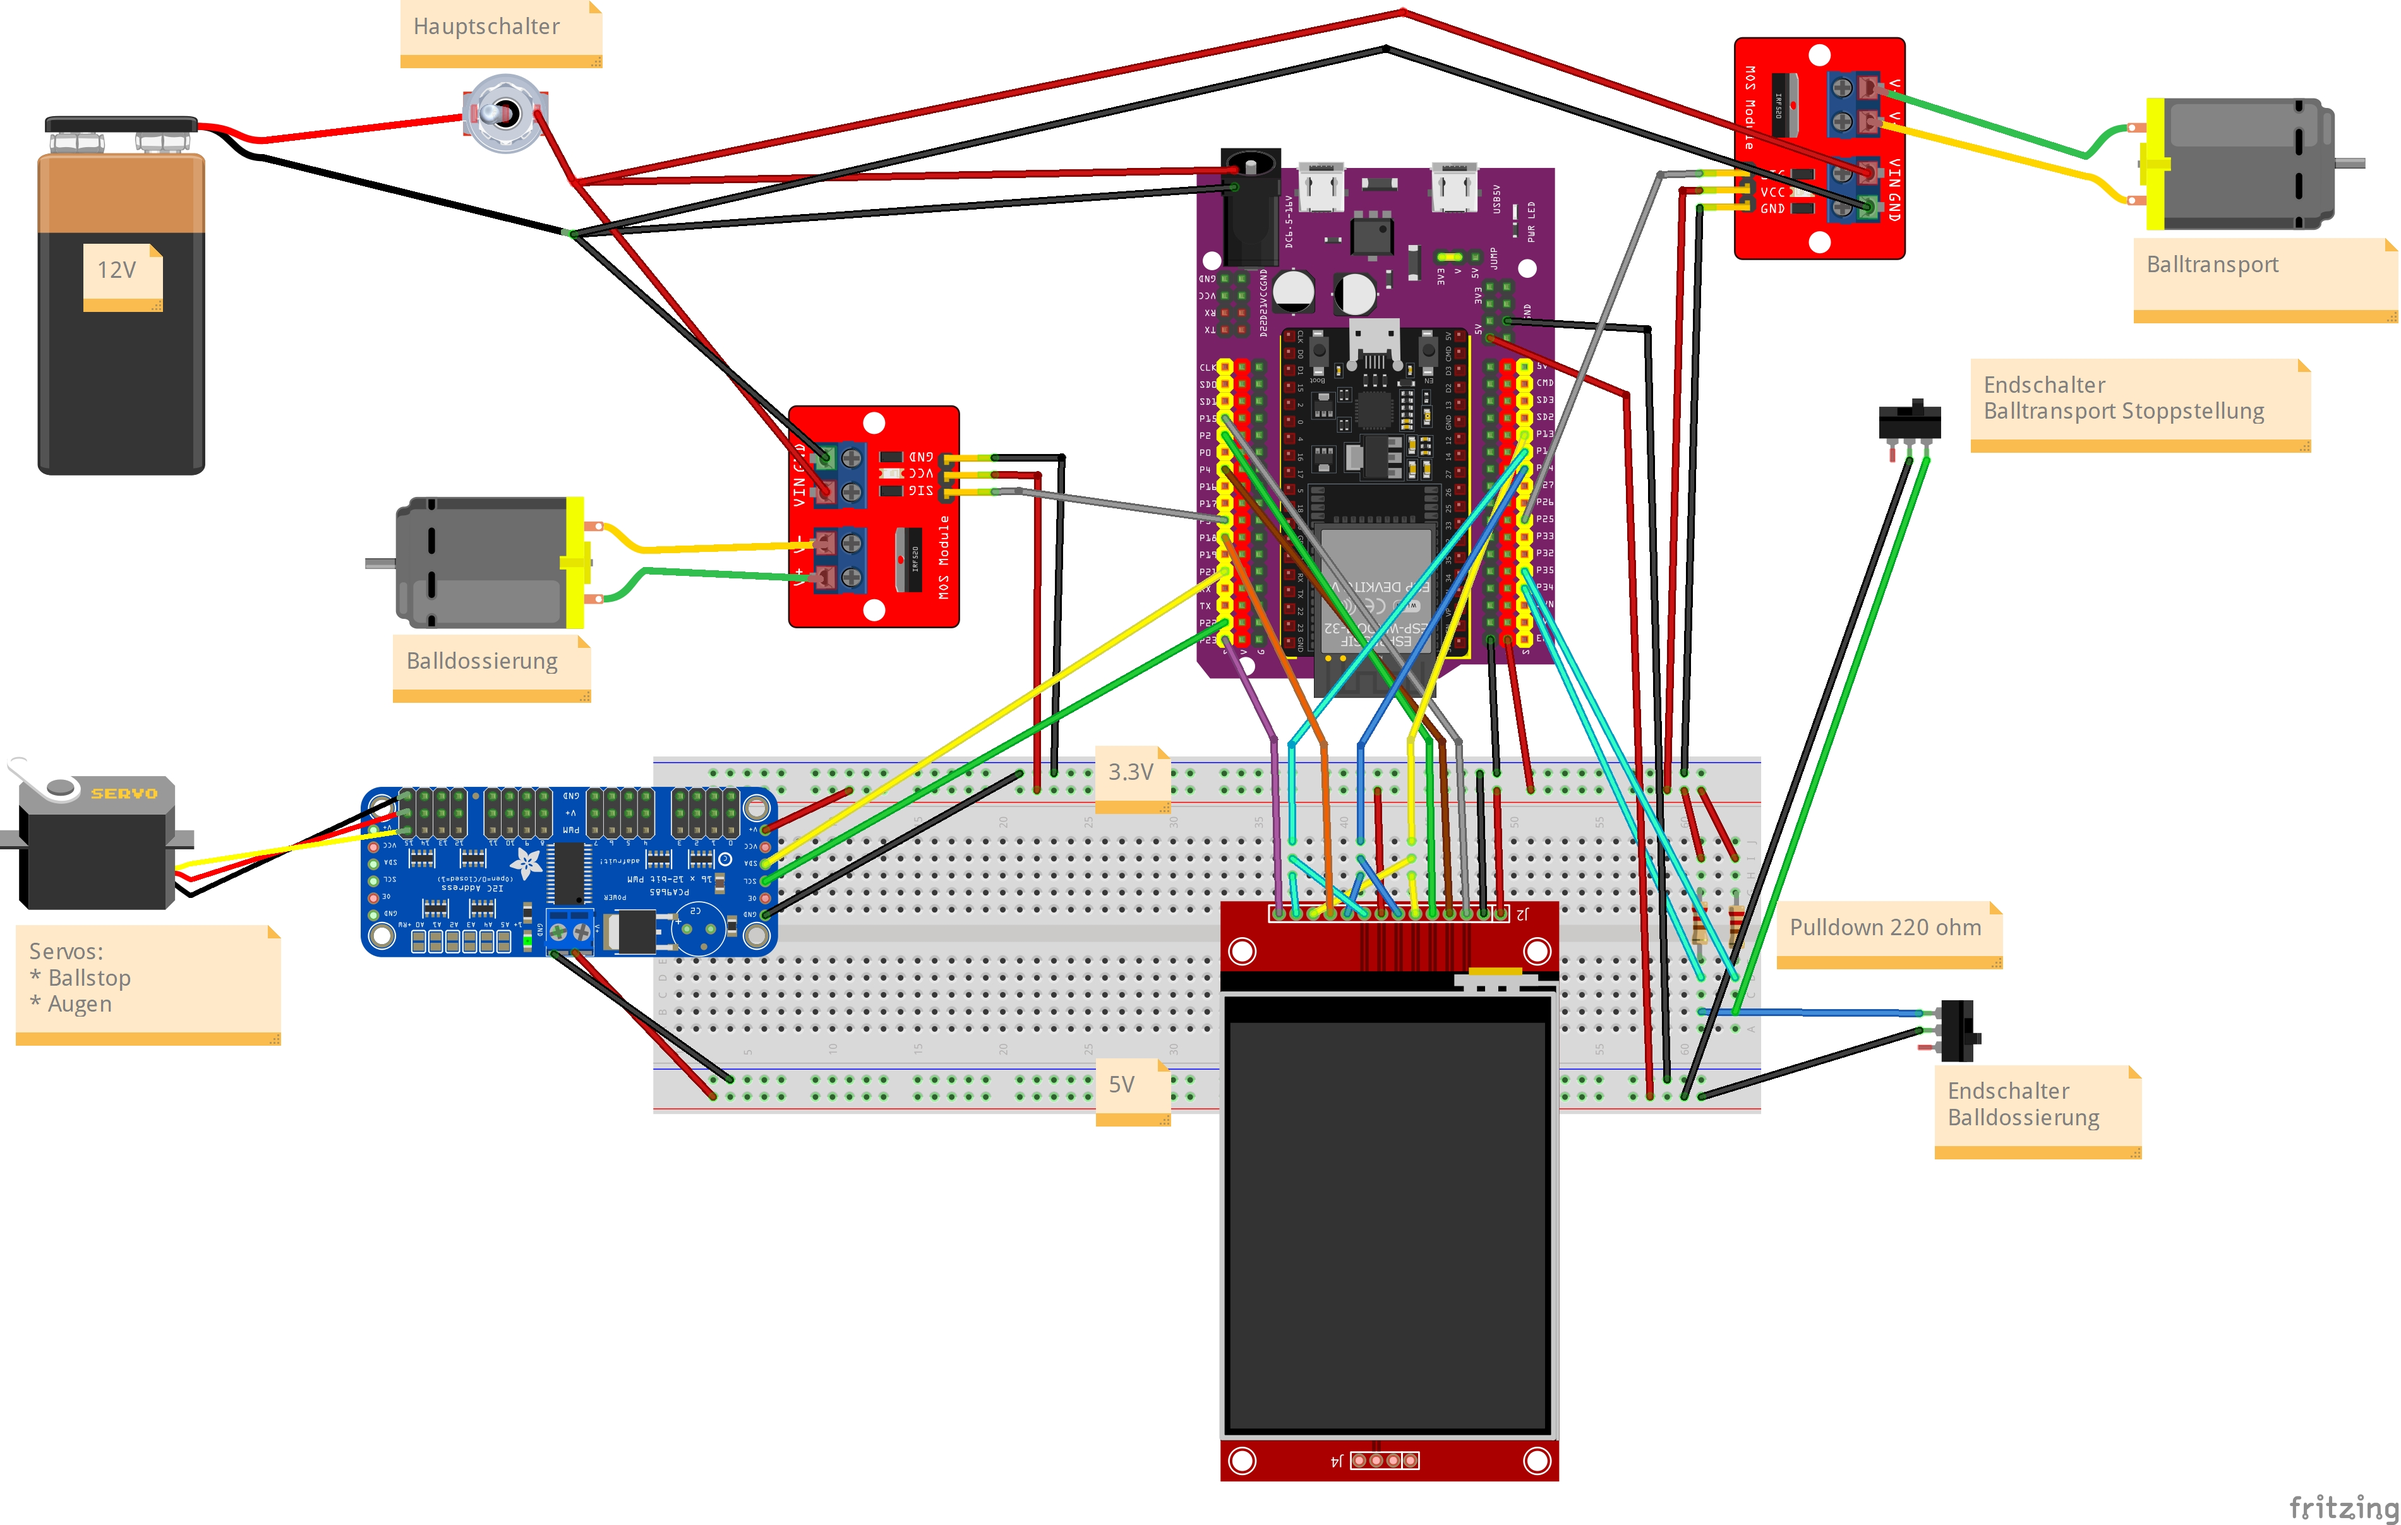
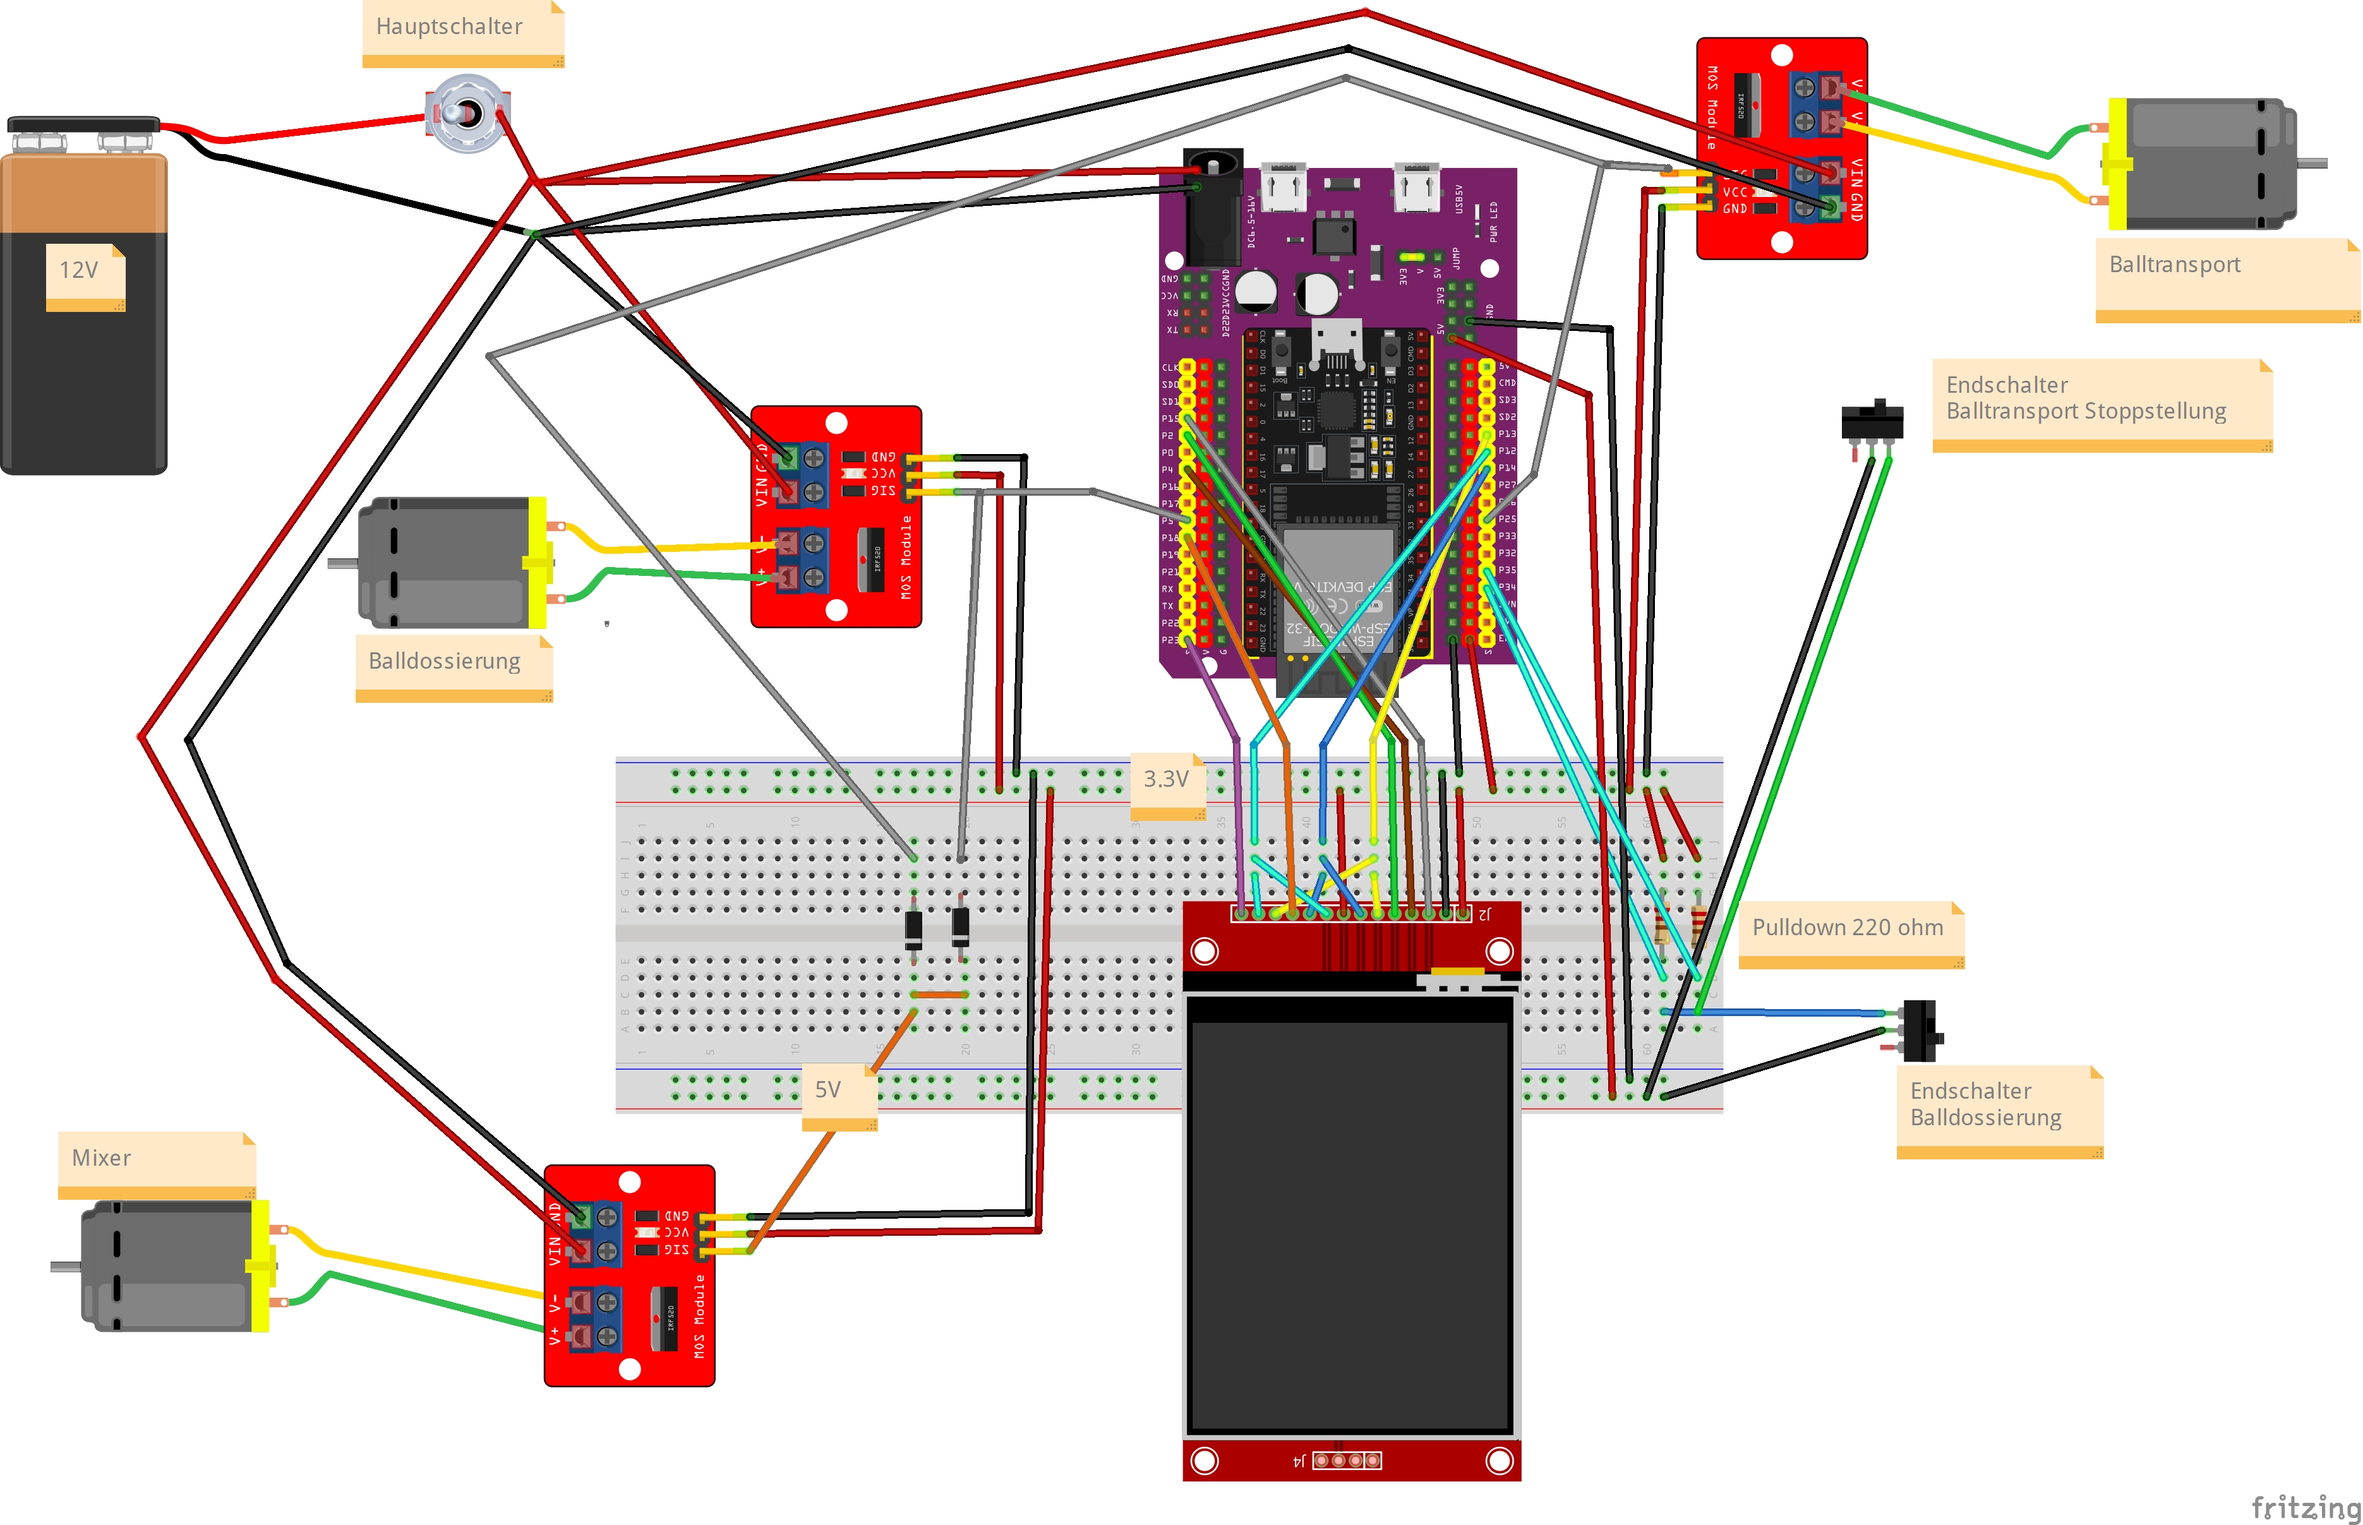
Add some docs

Changed region(s): [[0.0, 0.0, 0.9612, 0.9938], [0.5581, 0.9317, 0.5891, 0.9627]]

diff --git a/Arduino/Model/Model06-Stokys-RobiTheWinner/SquareLine/RobiTheWinnerDisplay_events.py b/Arduino/Model/Model06-Stokys-RobiTheWinner/SquareLine/RobiTheWinnerDisplay_events.py
@@ -54,3 +54,7 @@ def BallLiftStopClicked(event_struct):
 def BallLiftSpeedChanged(event_struct):
     return
 
+
+def BallOutputSpeedChanged(event_struct):
+    return
+
